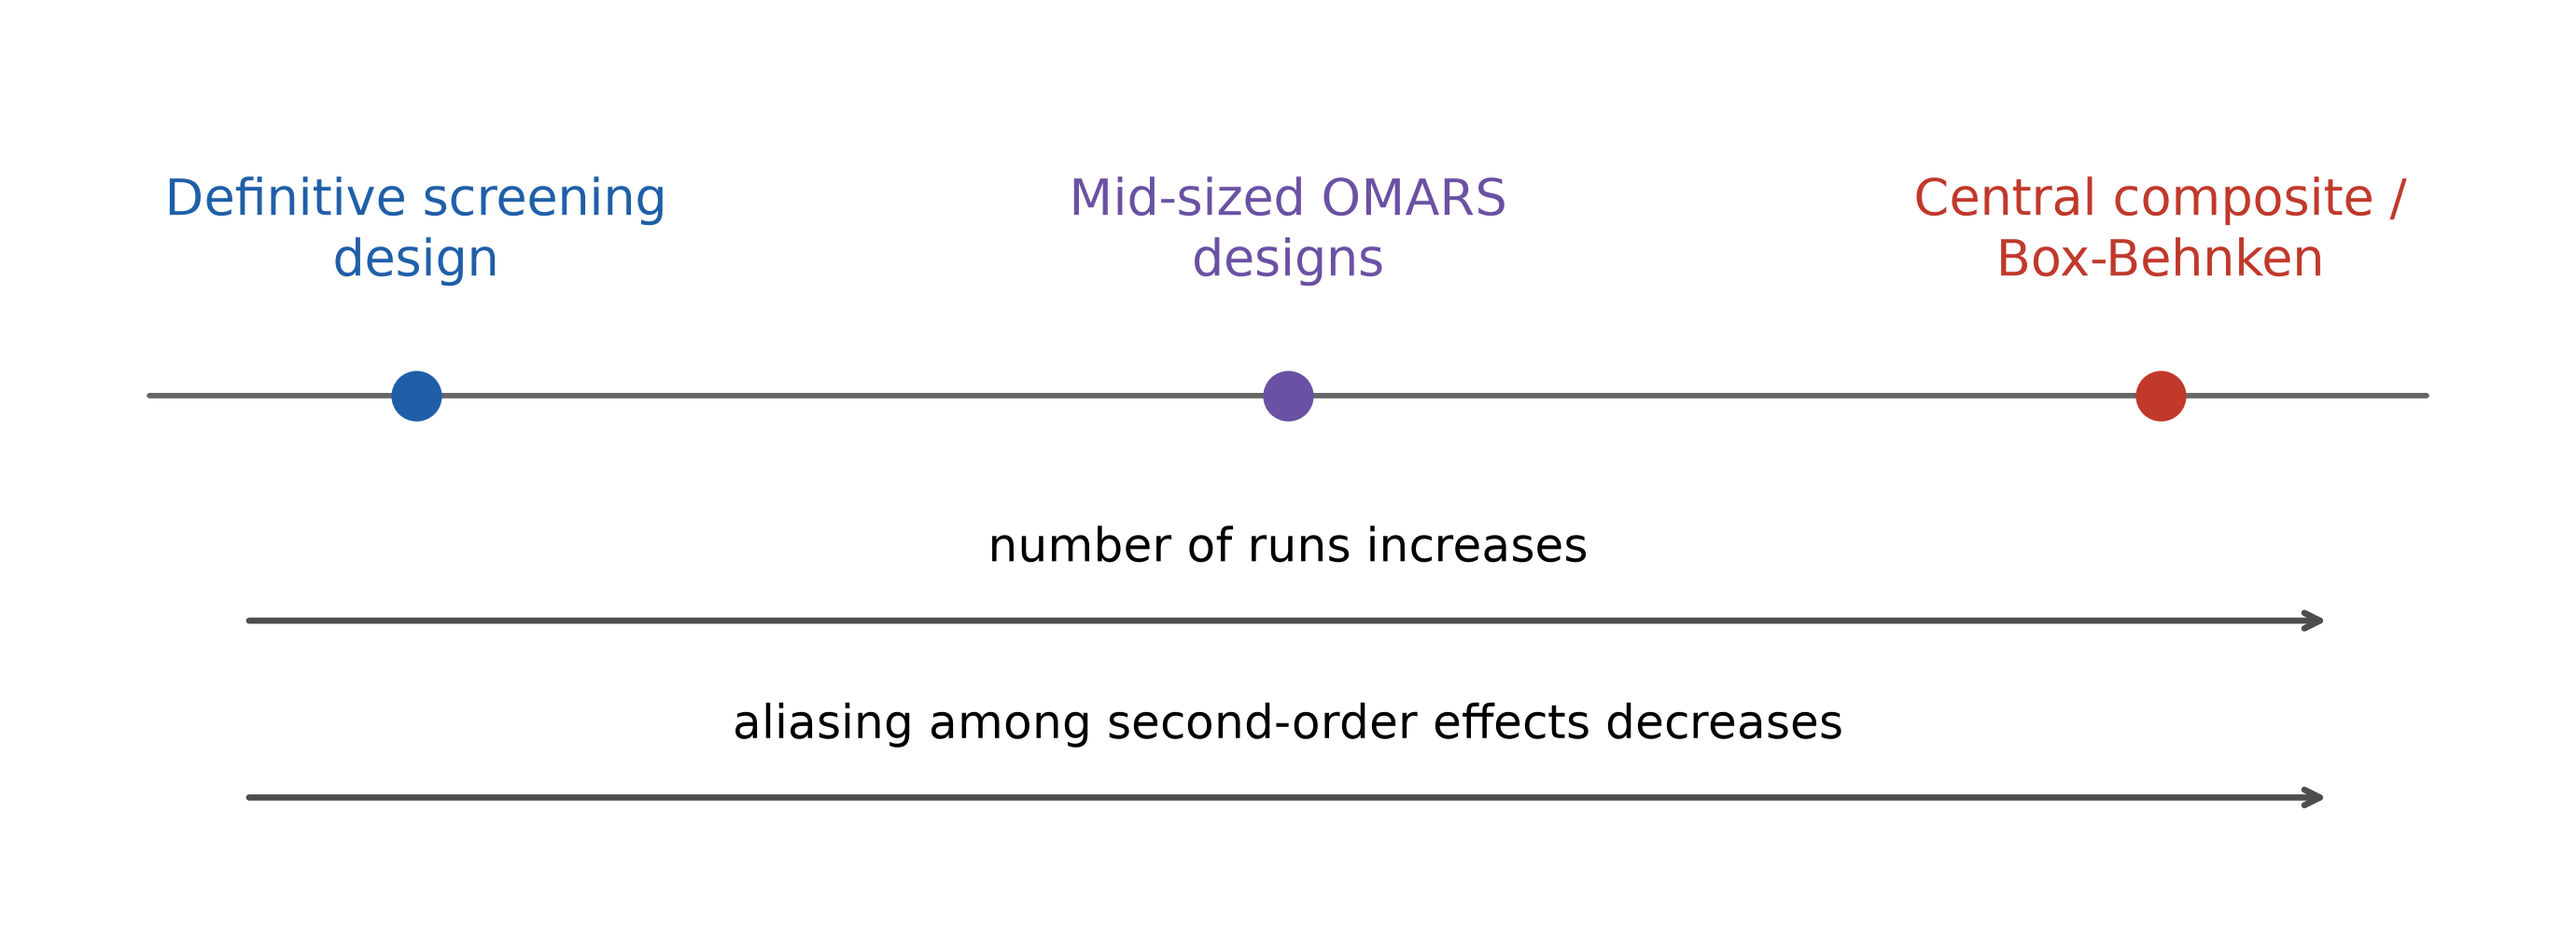
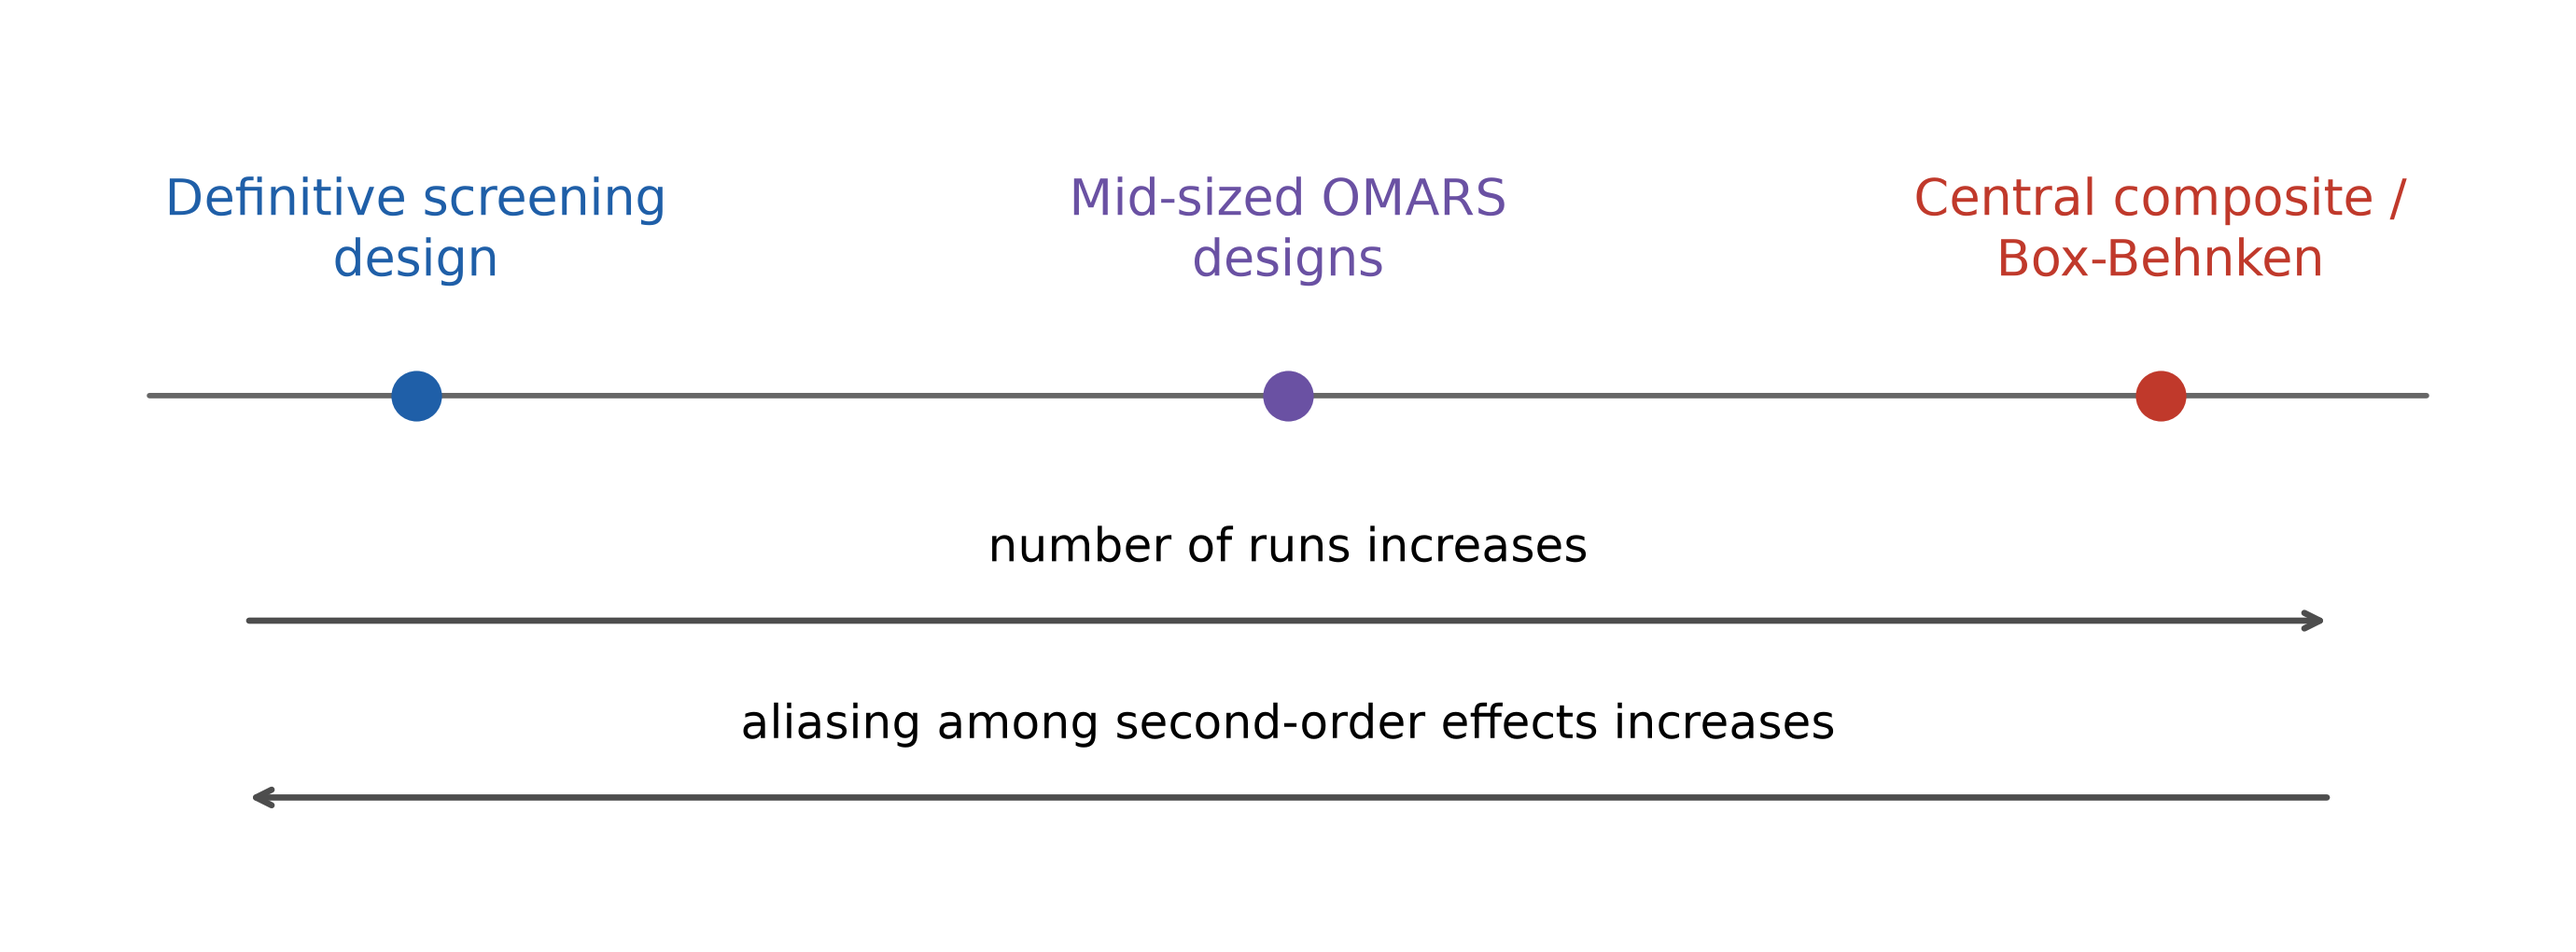
Flip the aliasing arrow in the design-spectrum figure
The bottom arrow now points right to left, and its caption reads "aliasing
among second-order effects increases", so the figure shows aliasing growing
from the central-composite / Box-Behnken end towards the definitive screening
design. The top "number of runs increases" arrow is unchanged. PNG regenerated
from the script.

https://claude.ai/code/session_01MjTdW5BuKBy1b9iTZAPKC7

Changed region(s): [[0.2804, 0.7294, 0.7167, 0.7902], [0.0935, 0.8206, 0.1246, 0.851]]

diff --git a/doe/design-spectrum.py b/doe/design-spectrum.py
@@ -22,14 +22,14 @@ for x, label, colour in families:
     ax.plot(x, 0, marker="o", ms=12, color=colour, zorder=5)
     ax.text(x, 0.32, label, ha="center", va="bottom", fontsize=13, color=colour)
 
-# Two labelled arrows, both pointing left to right.
+# Two labelled arrows: number of runs increases to the right, aliasing increases to the left.
 ax.annotate("", xy=(9.2, -0.7), xytext=(0.8, -0.7),
             arrowprops=dict(arrowstyle="->", color="0.3", lw=1.6))
 ax.text(5.0, -0.55, "number of runs increases", ha="center", va="bottom", fontsize=12)
 
-ax.annotate("", xy=(9.2, -1.25), xytext=(0.8, -1.25),
+ax.annotate("", xy=(0.8, -1.25), xytext=(9.2, -1.25),
             arrowprops=dict(arrowstyle="->", color="0.3", lw=1.6))
-ax.text(5.0, -1.10, "aliasing among second-order effects decreases",
+ax.text(5.0, -1.10, "aliasing among second-order effects increases",
         ha="center", va="bottom", fontsize=12)
 
 ax.set_xlim(0, 10)
